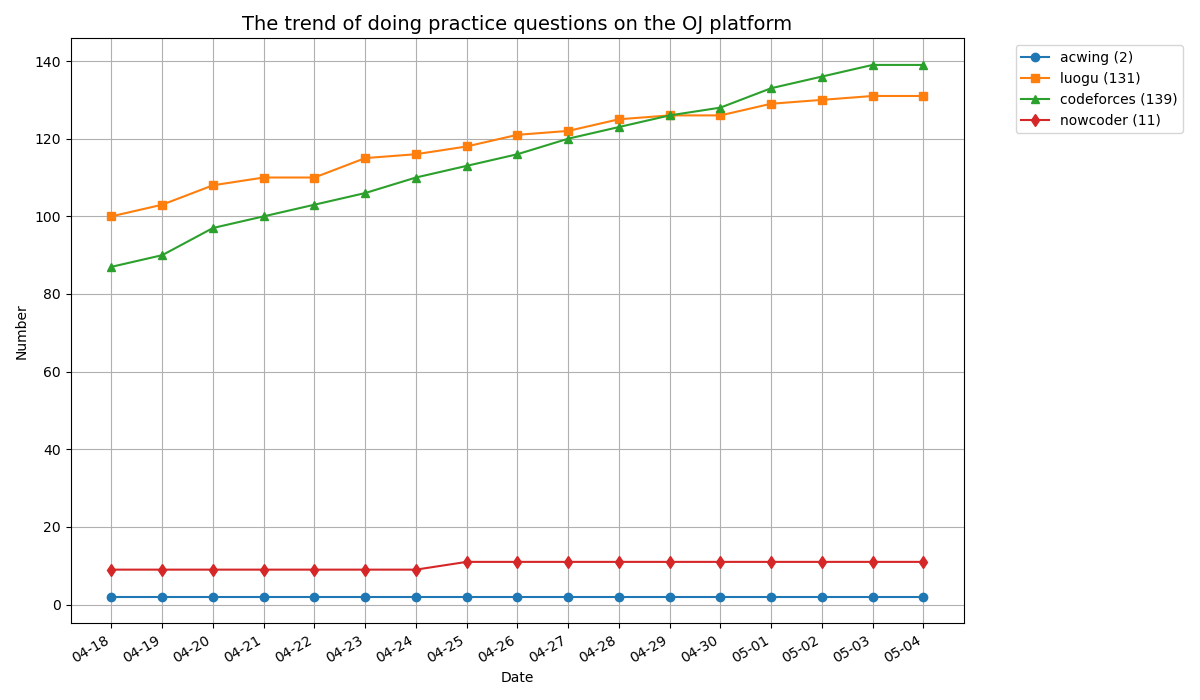
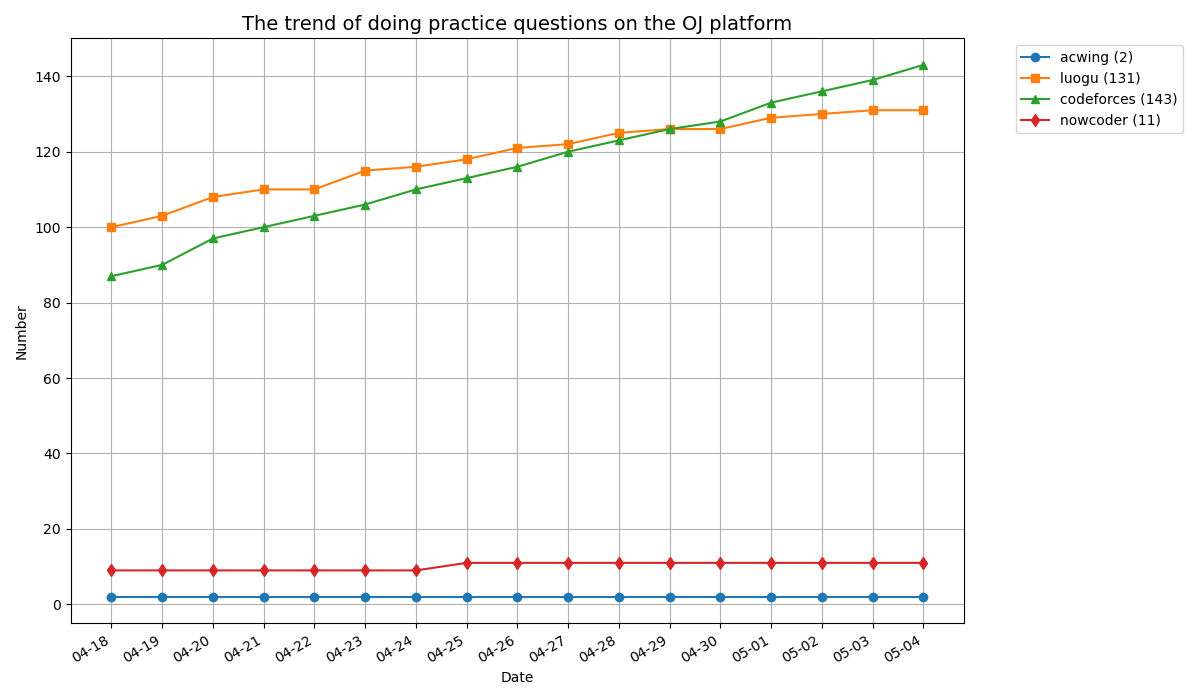
update

diff --git a/codeforces/1511A/main.cpp b/codeforces/1511A/main.cpp
@@ -1,0 +1,69 @@
+#include <bits/stdc++.h>
+using namespace std;
+
+#define ALL(x) (x).begin(), (x).end()
+#define MAXV(a, l, r) *std::max_element((a).begin() + (l), (a).begin() + (r))
+#define MINV(a, l, r) *std::min_element((a).begin() + (l), (a).begin() + (r))
+
+using ll = long long int;
+using ull = unsigned long long int;
+using PII = pair<int, int>;
+
+#define DEBUG
+
+#ifdef DEBUG
+template <typename Container>
+void PrintCon(const Container& cont)
+{
+    std::cout << "{ ";
+    if (!cont.empty()) {
+        auto it = cont.begin();
+        std::cout << "\033[33m" << *it++ << "\033[0m";
+        for (; it != cont.end(); ++it)
+            std::cout << " | " << "\033[33m" << *it << "\033[0m";
+    }
+    std::cout << " }" << std::endl;
+}
+
+template <typename... Args>
+void LOG(Args&&... values)
+{
+    ((std::cout << "\033[33m" << std::forward<Args>(values) << "\033[0m" << " "), ...);
+    std::cout << std::endl;
+}
+#else
+template <typename... Args>
+void LOG(Args&... args);
+
+template <typename Container>
+void PrintCon(const Container& cont);
+#endif
+
+void solve()
+{
+    int n;
+    cin >> n;
+    int ans = 0;
+    for (int i = 0; i < n; i++) {
+        int r;
+        cin >> r;
+        if (r == 1||r==3) {
+            ans++;
+        }
+    }
+//    LOG(ans);
+    cout<<ans<<endl;
+}
+
+int main()
+{
+    ios::sync_with_stdio(false);
+    cin.tie(nullptr);
+    int t;
+    cin >> t;
+    while (t--) {
+        solve();
+    }
+
+    return 0;
+}

diff --git a/codeforces/705A/main.cpp b/codeforces/705A/main.cpp
@@ -1,0 +1,61 @@
+#include <bits/stdc++.h>
+using namespace std;
+
+#define ALL(x) (x).begin(), (x).end()
+#define MAXV(a, l, r) *std::max_element((a).begin() + (l), (a).begin() + (r))
+#define MINV(a, l, r) *std::min_element((a).begin() + (l), (a).begin() + (r))
+
+using ll = long long int;
+using ull = unsigned long long int;
+using PII = pair<int, int>;
+
+#define DEBUG
+#ifdef DEBUG
+template <typename Container>
+void PrintCon(const Container& cont)
+{
+    std::cout << "{ ";
+    if (!cont.empty()) {
+        auto it = cont.begin();
+        std::cout << "\033[33m" << *it++ << "\033[0m";
+        for (; it != cont.end(); ++it)
+            std::cout << " | " << "\033[33m" << *it << "\033[0m";
+    }
+    std::cout << " }" << std::endl;
+}
+
+template <typename... Args>
+void LOG(Args&&... values)
+{
+    ((std::cout << "\033[33m" << std::forward<Args>(values) << "\033[0m" << " "), ...);
+    std::cout << std::endl;
+}
+
+#else
+
+template <typename... Args>
+void LOG(Args&... args);
+template <typename Container>
+void PrintCon(const Container& cont);
+
+#endif
+
+int main()
+{
+    ios::sync_with_stdio(false);
+    cin.tie(nullptr);
+    int n;
+    cin >> n;
+    for (int i = 1; i < n; i++) {
+        if (i & 1)
+            cout << "I hate that ";
+        else
+            cout << "I love that ";
+    }
+    if (n & 1)
+        cout << "I hate it";
+    else
+        cout << "I love it";
+    cout << endl;
+    return 0;
+}

diff --git a/codeforces/443A/main.cpp b/codeforces/443A/main.cpp
@@ -1,0 +1,58 @@
+#include <bits/stdc++.h>
+using namespace std;
+
+#define ALL(x) (x).begin(), (x).end()
+#define MAXV(a, l, r) *std::max_element((a).begin() + (l), (a).begin() + (r))
+#define MINV(a, l, r) *std::min_element((a).begin() + (l), (a).begin() + (r))
+
+using ll = long long int;
+using ull = unsigned long long int;
+using PII = pair<int, int>;
+
+#define DEBUG
+#ifdef DEBUG
+template <typename Container>
+void PrintCon(const Container& cont)
+{
+    std::cout << "{ ";
+    if (!cont.empty()) {
+        auto it = cont.begin();
+        std::cout << "\033[33m" << *it++ << "\033[0m";
+        for (; it != cont.end(); ++it)
+            std::cout << " | " << "\033[33m" << *it << "\033[0m";
+    }
+    std::cout << " }" << std::endl;
+}
+
+template <typename... Args>
+void LOG(Args&&... values)
+{
+    ((std::cout << "\033[33m" << std::forward<Args>(values) << "\033[0m" << " "), ...);
+    std::cout << std::endl;
+}
+
+#else
+
+template <typename... Args>
+void LOG(Args&... args);
+template <typename Container>
+void PrintCon(const Container& cont);
+
+#endif
+
+int main()
+{
+    ios::sync_with_stdio(false);
+    cin.tie(nullptr);
+
+    string s;
+    getline(cin,s); 
+    set<char> ans;
+    for (auto ch : s) {
+        if (isalpha(ch)) {
+            ans.insert(ch);
+        }
+    }
+    cout << ans.size() << endl;
+    return 0;
+}

diff --git a/codeforces/133A/main.cpp b/codeforces/133A/main.cpp
@@ -1,0 +1,61 @@
+#include <bits/stdc++.h>
+using namespace std;
+
+
+
+#define ALL(x) (x).begin(), (x).end()
+#define MAXV(a, l, r) *std::max_element((a).begin() + (l), (a).begin() + (r))
+#define MINV(a, l, r) *std::min_element((a).begin() + (l), (a).begin() + (r))
+
+
+
+using ll = long long int;
+using ull = unsigned long long int;
+using PII = pair<int,int>;
+
+#define DEBUG
+#ifdef DEBUG
+template<typename Container>
+void PrintCon(const Container& cont) {
+    std::cout << "{ ";
+    if (!cont.empty()) {
+        auto it = cont.begin();
+        std::cout <<"\033[33m"<< *it++<< "\033[0m";
+        for (; it != cont.end(); ++it)
+            std::cout << " | " <<"\033[33m"<< *it<< "\033[0m";
+    }
+    std::cout << " }" << std::endl;
+}
+
+template<typename... Args>
+void LOG(Args&&... values) {
+    ((std::cout <<"\033[33m"<< std::forward<Args>(values) << "\033[0m"<< " "), ...);
+    std::cout << std::endl;
+}
+
+#else
+
+template<typename ...Args>
+void LOG(Args& ...args);
+template<typename Container>
+void PrintCon(const Container& cont);
+
+#endif
+
+
+int main(){
+    ios::sync_with_stdio(false);
+    cin.tie(nullptr);
+    string s;
+    cin>>s;
+    for(auto ch :s){
+        if(ch=='H'||ch=='9'||ch=='Q'){
+            cout<<"YES"<<endl;
+            return 0;
+        }
+    }
+    cout<<"NO"<<endl;
+    
+
+    return 0;
+}
